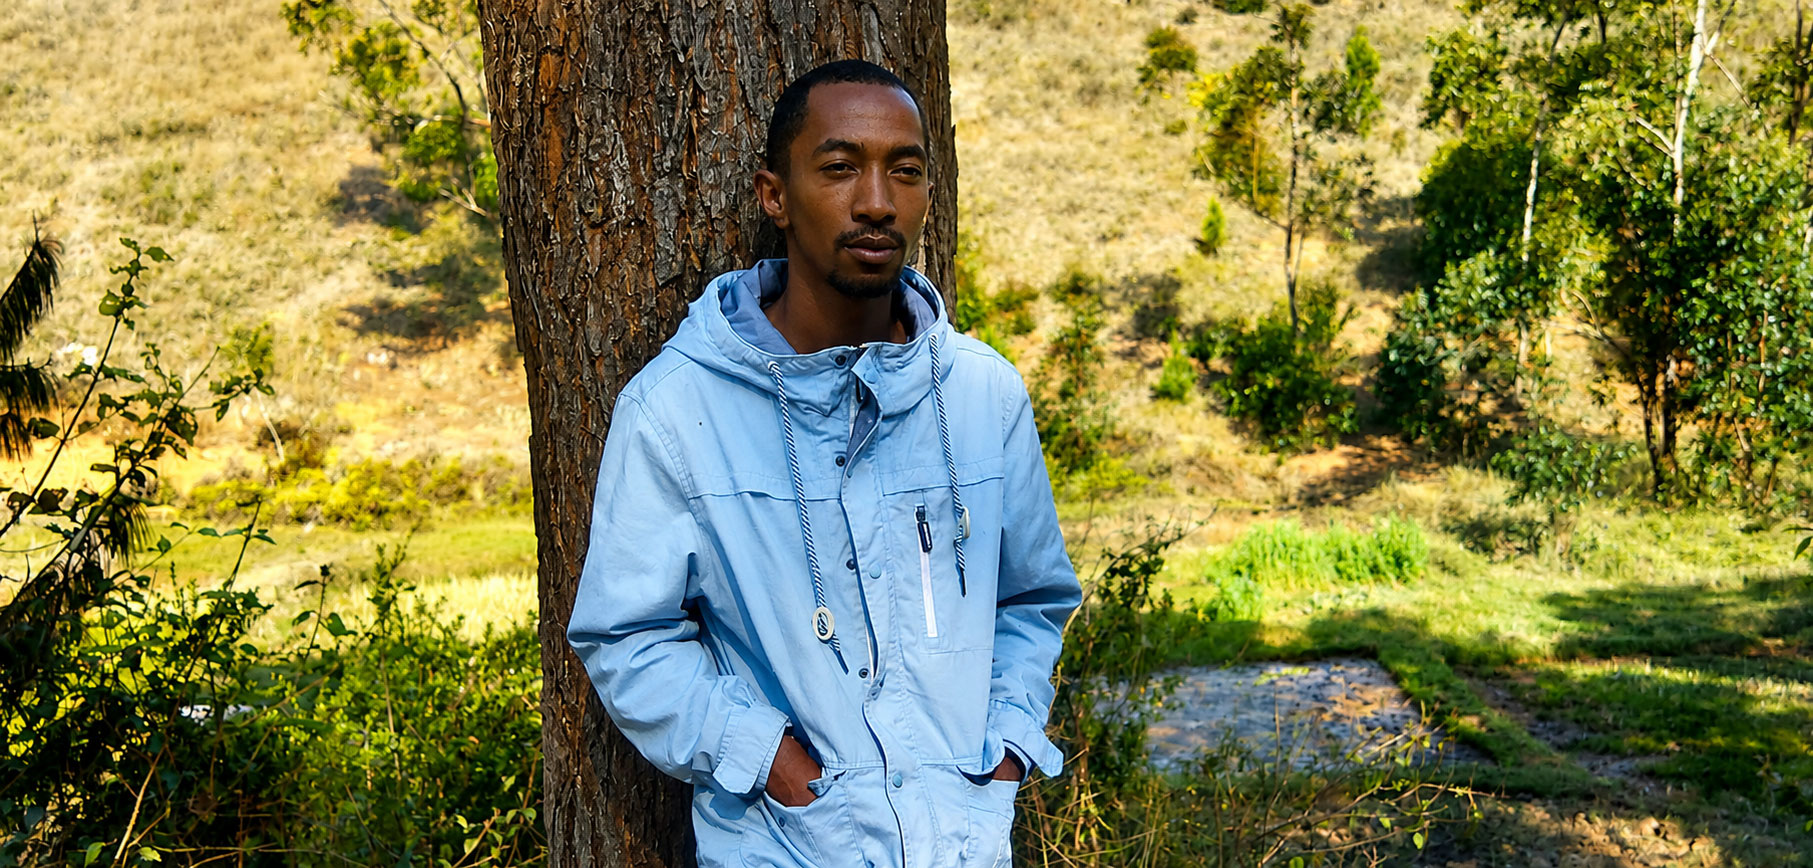
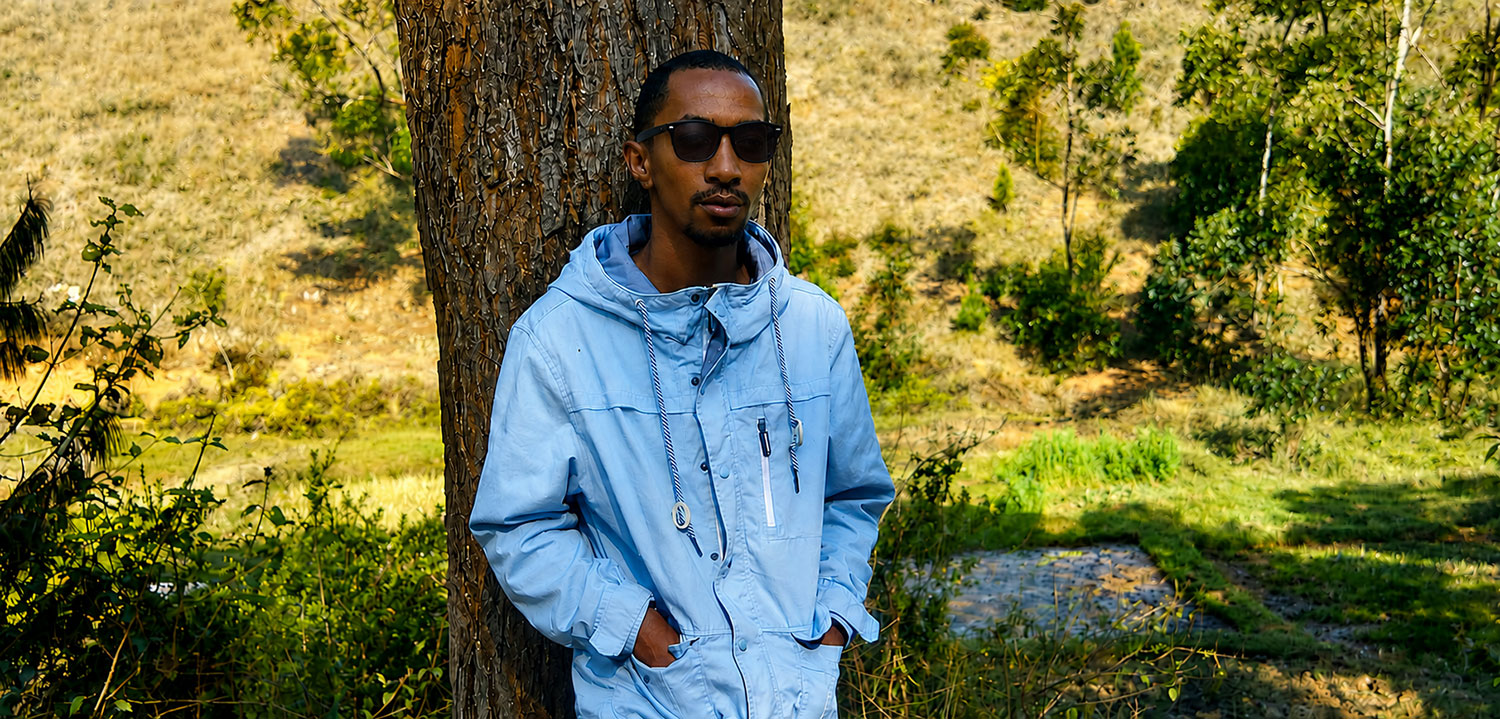
code source

diff --git a/src/page/Apropos.jsx b/src/page/Apropos.jsx
@@ -5,16 +5,24 @@ import { apropos } from "../constant";
 function Apropos({ handlePop, imaPop, handleClose }) {
   return (
     <div id="apropos" className="blocApropos w-full">
-      {imaPop && (
-        <div
-          onClick={handleClose}
-          className="bloc-pop cursor-pointer fixed z-50 top-0 left-0 w-full h-full flex items-center justify-center"
-        >
-          <div className="bloc-imapop">
-            <img className="max-w-[500px]" src={imaPop} alt="" srcset="" />
-          </div>
+      <div
+        onClick={handleClose}
+        className={
+          imaPop
+            ? "bloc-pop cursor-pointer fixed z-50 top-0 left-0 opacity-100 w-full h-full flex items-center justify-center duration-300"
+            : "bloc-pop cursor-pointer fixed z-50 -top-full left-0 opacity-0 w-full h-full flex items-center justify-center duration-300"
+        }
+      >
+        <div className="max-w-[1200px] mx-auto bloc-imapop">
+          <img
+            className="object-contain h-[500px]"
+            src={imaPop}
+            alt=""
+            srcset=""
+          />
         </div>
-      )}
+      </div>
+
       <div className="Hero h-[80vh] w-full flex items-center justify-center">
         <div className="max-w-[300px]">
           <h1 className="text-4xl text-white font-bold">Apropos de moi</h1>
@@ -23,7 +31,7 @@ function Apropos({ handlePop, imaPop, handleClose }) {
       <div className="w-full xs:py-14 md:py-24 px-6">
         <div className="w-full mx-auto max-w-[1200px] h-full">
           <h2 className="text-3xl text-slate-700 font-semibold mb-10 pb-4 border-b border-b-slate-200 relative after:absolute after:-bottom-[2px] after:left-0 after:w-20 after:h-1 after:bg-blue-500">
-            Apropos de moi
+            Qui suis-je ?
           </h2>
           <div className="w-full xs:justify-start mdl:justify-between xs:items-start lg:items-center flex xs:flex-col-reverse lg:flex-row gap-10">
             <div className="relative xs:w-full md:w-auto">
@@ -38,7 +46,7 @@ function Apropos({ handlePop, imaPop, handleClose }) {
               <div className="ima-box absolute xs:-right-5 md:-right-10 xs:-bottom-5 md:-bottom-10">
                 <div className="box-ima h-[160px] w-[150px] border-8 border-white overflow-hidden">
                   <img
-                    src="./img/img3.jpg"
+                    src="./img/img7.jpg"
                     alt="image"
                     className="ima object-cover w-full h-full"
                     onClick={(e) => handlePop(e)}

diff --git a/src/components/home/Apropos.jsx b/src/components/home/Apropos.jsx
@@ -4,16 +4,24 @@ import { motion } from "framer-motion";
 function Apropos({ imaPop, handlePop, handleClose }) {
   return (
     <div className="aproHome w-full">
-      {imaPop && (
-        <div
-          onClick={handleClose}
-          className="bloc-pop fixed cursor-pointer z-50 top-0 left-0 w-full h-full flex items-center justify-center"
-        >
-          <div className="bloc-imapop">
-            <img className="max-w-[500px]" src={imaPop} alt="" srcset="" />
-          </div>
+      <div
+        onClick={handleClose}
+        className={
+          imaPop
+            ? "bloc-pop cursor-pointer fixed z-50 top-0 left-0 opacity-100 w-full h-full flex items-center justify-center duration-300"
+            : "bloc-pop cursor-pointer fixed z-50 -top-full left-0 opacity-0 w-full h-full flex items-center justify-center duration-300"
+        }
+      >
+        <div className="bloc-imapop">
+          <img
+            className="object-contain h-[600px]"
+            src={imaPop}
+            alt=""
+            srcset=""
+          />
         </div>
-      )}
+      </div>
+
       <div className="sect-apro xs:py-14 md:py-24 px-6 bg-blue-500 flex justify-center items-center">
         <div className="bloc-line flex justify-between items-center lg:flex-row xs:flex-col xs:gap-8 w-[1200px] max-w-full gap-8">
           <div className="col1 xs:max-w-full lg:max-w-lg">

diff --git a/src/components/header/HeaderBottom.jsx b/src/components/header/HeaderBottom.jsx
@@ -1,5 +1,5 @@
-import React, { useEffect, useRef, useState } from "react";
-import { FaAngleDoubleUp, FaList, FaPhone, FaTimes } from "react-icons/fa";
+import React, { useEffect, useRef } from "react";
+import { FaAngleDoubleUp, FaList, FaTimes } from "react-icons/fa";
 import { allList } from "../../constant";
 import { NavLink } from "react-router-dom";
 
@@ -89,15 +89,15 @@ function HeaderBottom({ nav, setNav, barsco, setBarsco }) {
           ))}
         </ul>
       </div>
-      <a
+      <div
         onClick={handleToTop}
         ref={scrotop}
-        className="fixed bg-blue-500 p-2 top-[60vh] -right-10 duration-500 shadow-md shadow-[rgba(0,0,0,0.5)] rounded-md"
+        className="fixed cursor-pointer bg-blue-500 p-2 top-[60vh] -right-10 duration-500 shadow-md shadow-[rgba(0,0,0,0.5)] rounded-md"
       >
         <div className="bloc-font">
           <FaAngleDoubleUp className="text-white" />
         </div>
-      </a>
+      </div>
     </div>
   );
 }

diff --git a/src/constant/index.jsx b/src/constant/index.jsx
@@ -54,7 +54,7 @@ export const allList = [
     {
       id: 1,
       param:
-        "Je m’appelle RAFETISON Onjaniaina Herilala, 32 ans, basé à Antananarivo, Madagascar. Diplômé en informatique et passionné par le numérique, je conçois des solutions web adaptées aux besoins réels des utilisateurs.",
+        "Je m'appelle RAFETISON Onjaniaina Herilala, 34 ans, basé à Antananarivo, Madagascar. Diplômé en informatique et fort d'un stage de 6 mois chez Netykom, je suis développeur web passionné par la création de sites et d'applications modernes, performants et adaptés aux besoins des utilisateurs",
     },
     {
       id: 2,
@@ -272,7 +272,7 @@ export const allList = [
   image = [
     {
       _id: 1,
-      img: "./img/img3.jpg",
+      img: "./img/img1.jpg",
     },
     {
       _id: 2,
@@ -284,7 +284,7 @@ export const allList = [
     },
     {
       _id: 4,
-      img: "./img/img1.jpg",
+      img: "./img/img8.jpg",
     },
     {
       _id: 5,
@@ -296,7 +296,7 @@ export const allList = [
     },
     {
       _id: 7,
-      img: "./img/img1.jpg",
+      img: "./img/img3.jpg",
     },
   ],
   blogItem = [

diff --git a/src/components/home/Container.jsx b/src/components/home/Container.jsx
@@ -1,4 +1,4 @@
-import React, { useEffect, useRef, useState } from "react";
+import React, { useState } from "react";
 import { bannerItem } from "../../constant";
 import Slider from "react-slick";
 import ButtonTelechargement from "../action/ButtonTelechargement";
@@ -55,11 +55,11 @@ function Container({ handleClose, handlePop, imaPop }) {
       </div>
     ),
     customPaging: (i) => (
-      <div className={i == dotActive ? "is-dot" : "not-dot"}>{}</div>
+      <div className={i === dotActive ? "is-dot" : "not-dot"}>{}</div>
     ),
   };
   return (
-    <div id="#" className="page-container">
+    <div className="page-container">
       <div className="bloc-container w-full h-full">
         <div className="w-full h-full">
           <Slider {...Settings}>

diff --git a/src/page/Message.jsx b/src/page/Message.jsx
@@ -23,7 +23,7 @@ function Message() {
     }
     const { name, value } = e.target;
     setForm({ ...form, [name]: value });
-    setErrors({ ...errors, [name]: "" }); // Reset individual field error
+    setErrors({ ...errors, [name]: "" });
   };
 
   const validateForm = () => {
@@ -36,7 +36,7 @@ function Message() {
       newErrors.reply_to = "! Entrer un email valide";
     }
 
-    if (!form.message) newErrors.message = "! Enter votre message";
+    if (!form.message) newErrors.message = "! Entrer votre message";
 
     setErrors(newErrors);
     return Object.keys(newErrors).length === 0;
@@ -70,7 +70,7 @@ function Message() {
         setTimeout(() => {
           setMessage("");
         }, 5000);
-        console.error(err);
+        // console.error(err);
       })
       .finally(() => setLoading(false));
   };

diff --git a/public/index.html b/public/index.html
@@ -5,7 +5,7 @@
     <link rel="icon" href="%PUBLIC_URL%/img/logo.png" />
     <meta name="viewport" content="width=device-width, initial-scale=1" />
     <meta name="theme-color" content="#000000" />
-    <link rel="apple-touch-icon" href="%PUBLIC_URL%/logo192.png" />
+    <link rel="apple-touch-icon" href="%PUBLIC_URL%/img/logo.png" />
     <!-- ************************ réf site **************************************** -->
     <meta
       name="description"
@@ -45,7 +45,7 @@
       work correctly both with client-side routing and a non-root public URL.
       Learn how to configure a non-root public URL by running `npm run build`.
     -->
-    <title>Rafetison Onjaniaina Herilala | développeur web</title>
+    <title>RAFETISON Onjaniaina Herilala | développeur web</title>
   </head>
   <body>
     <noscript>You need to enable JavaScript to run this app.</noscript>

diff --git a/src/App.css b/src/App.css
@@ -707,10 +707,9 @@ button:disabled {
   max-width: 800px;
   top: 50%;
   left: 50%;
-  border: 5px solid #222;
   border-radius: 4px;
   background-repeat: no-repeat;
-  background-size: cover;
+  background-size: contain;
   background-position: center;
   transition: 0.5s all ease-out;
   transform: translate(-50%, -50%) scale(0, 0);

diff --git a/src/App.jsx b/src/App.jsx
@@ -70,7 +70,7 @@ function App() {
           <Route path="/blog" element={<Blog />} />
           <Route path="/projets" element={<Projet />} />
           <Route path="/contact" element={<Message />} />
-          <Route path="/" element={<AllProjets />}>
+          <Route element={<AllProjets />}>
             <Route path="/backgound3d" element={<Boxes3dBackground />} />
             <Route path="/compteur" element={<Compteur />} />
             <Route path="/navigation" element={<Navigation />} />

diff --git a/src/components/footer/Footer.jsx b/src/components/footer/Footer.jsx
@@ -91,7 +91,7 @@ function Footer() {
           </div>
         </div>
       </div>
-      <div className="w-full h-14 bg-slate-900 border-t-2 border-white p-2 flex items-center justify-center gap-3">
+      <div className="w-full h-14 bg-slate-900 border-t-[1px] border-white p-2 flex items-center justify-center gap-3">
         <div className="w-20 h-full">
           <img className="w-full h-full" src="./img/mada.png" alt="" />
         </div>